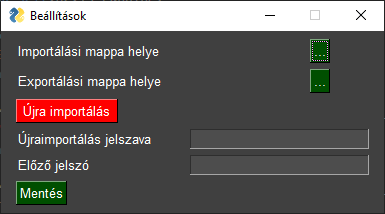
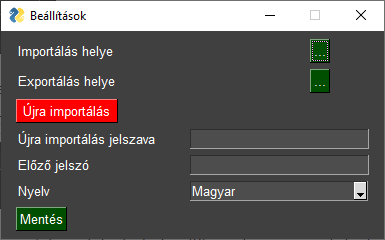
Added a help page

diff --git a/Help.MD b/Help.MD
@@ -2,11 +2,11 @@
 
 ## Első lépések
 
- Mikor elindítod a programot, a beállítások panel jelenik meg, ahol be lehet állítani az importálási mappát, az exportálási mappát, illetve az újraimportálás jelszavát is. Ezt a későbbiekben megváltoztahatod, amennyiben úgy gondolod.
+ Mikor elindítod a programot, a beállítások panel jelenik meg, ahol be lehet állítani az importálási mappát, az exportálási mappát, illetve az újraimportálás jelszavát is. A nyelv beállítása javasolt az első indításnál, mert olyankor még nem igényel újraindítást! Ezeket a beálításokat a későbbiekben a 'Beállítások' gombra kattintva bármikor megváltoztahatod.
 
 ![Beállítások ablak](https://github.com/NightKey/Inventory_manager/blob/master/images/settings00.png?raw=true)
 
- Amennyiben sikeresen megadtad az adatokat, és a mentés gombra nyomsz, a főmenü nylílik meg előtted nemsokkal később.
+ Amennyiben sikeresen megadtad az adatokat, és a mentés gombra nyomsz, a főmenü nylílik meg előtted az adatok importálása után. Az importálás a számítógép teljesítményétől és az adatok mennyiségétől függően, akár több percet is igénybe vehet!
 
 ![Főmenü](https://github.com/NightKey/Inventory_manager/blob/master/images/main00.png?raw=true)
 
@@ -14,9 +14,9 @@
 
 ![Betöltési hiba](https://github.com/NightKey/Inventory_manager/blob/master/images/loadingerror00.png?raw=true)
 
- A hibát az okozza, hogy a mentett adatok nem olvashatóak, és az importálás sikertelen volt, vagy azért, mert nem voltak fileok, amiből importálni lehetett volna, vagy azért, mert hibásak voltak a fileok, amiket importálni próbált a program.
+ A hibát az okozza, hogy a mentett adatok nem olvashatóak, és az importálás sikertelen volt. Ez vagy azért lehet, mert nem voltak fileok amiből importálni lehetett volna, vagy azért, mert hibásak voltak a fileok amiket importálni próbált a program.
 
- A 'Beállítások' opcióra nyomva a beállítások panelt hozhatod elő, melyen ugyan azokat tudod beállítani, mint az első panelen, amivel találkoztál, továbbá az újraimportálás gomb is elérhető lesz számodra. Ezt csak végszükség esetén használd, mert a beolvasott adatokat, az XLSX file-ban találhatóakra állítja vissza. *A PROGRAM __NEM__ VÁLTOZTATJA AZ XLSX FILEOKAT!*
+ A 'Beállítások' opcióra nyomva a beállítások panelt hozhatod elő, melyen ugyan azokat tudod beállítani, mint az első panelen, amivel találkoztál, továbbá az újraimportálás gomb is elérhető lesz számodra. Ezt csak végszükség esetén használd, mert az elmentett adatokat, az XLSX file-ban találhatóakra állítja vissza. *A PROGRAM __NEM__ VÁLTOZTATJA AZ XLSX FILEOKAT!*
 
 ![Beálítások ablak 2](https://github.com/NightKey/Inventory_manager/blob/master/images/settings01.png?raw=true)
 
@@ -24,17 +24,50 @@
 
 ![Jelszó bekérő](https://github.com/NightKey/Inventory_manager/blob/master/images/validation00.png?raw=true)
 
- Az embereket név szerint tudod keresni, mely keresést resetelni tudod az 'X' gomb megnyomásával a kereső sáv mellett.
+ Az embereket név szerint tudod keresni, mely keresést törölni tudod az 'X' gomb megnyomásával a kereső sáv mellett.
 
 ![Személyek](https://github.com/NightKey/Inventory_manager/blob/master/images/persons00.png?raw=true)
 
- Az árucikkeket a nevük, és a cikkszámuk alapján tudod keresni, melyeket külön-külön tudsz resetelni a nekik járó 'X' gombokkal.
+ Az árucikkeket a nevük, és a cikkszámuk alapján tudod keresni, melyeket külön-külön tudsz törölni a nekik járó 'X' gombokkal.
 
 ![Árucikkek](https://github.com/NightKey/Inventory_manager/blob/master/images/products00.png?raw=true)
 
- Az új szállító, árajánlat vagy rendelés gombbal pedig a következő felületre érsz, ahol ki tudod választani a személyt, tudsz hozzá adni megjegyzést, árucikkeket, és kedvezményt, majd el tudod menteni azt.
+ Az árucikkre kattintva elérheted az árucikk szerkesztő ablakot, ahol meg tudod változtatni az árucikk adatait.
+
+![Árucikk szerkesztése](https://github.com/NightKey/Inventory_manager/blob/master/images/productedit01.png?raw=true)
+
+ Az új szállító, árajánlat vagy rendelés gombbal pedig a következő felületre érsz.
 
 ![Levelek](https://github.com/NightKey/Inventory_manager/blob/master/images/newnote00.png?raw=true)
+
+ Itt az 'új árucikk felvétele' gombra kattintva új árucikket vehetünk fel, a következő ablakban.
+
+![Árucikk felvétele](https://github.com/NightKey/Inventory_manager/blob/master/images/productedit00.png?raw=true)
+
+ Amennyiben valamely árucikkből kevesebb lesz, mint a minimum beállított miután hozzá adjuk a szállító levélhez, a program figyelmeztetni fog mintket, a fennálló mennyiséggel.
+
+![Mennyiség figyelmeztetés](https://github.com/NightKey/Inventory_manager/blob/master/images/amounterror00.png?raw=true)
+
+ Miután hozzáadtuk az árucikkeket, felvehetünk egy kedvezményt, amely az egész levélre szól.
+
+![Kedvezmény felvétele](https://github.com/NightKey/Inventory_manager/blob/master/images/discount00.png?raw=true)
+
+ Hogy megnézzük az eddig felvett leveleket, a megfelelő gombra kattintva tudjuk megtenni. Amennyiben van levél, a következő ablakot fogjuk látni:
+
+![Levelek megtekintése](https://github.com/NightKey/Inventory_manager/blob/master/images/notes00.png?raw=true)
+
+ Itt a vevő kiválasztása után megtekinthetjük az adott levél előnézetét:
+
+![Levél megtekintése](https://github.com/NightKey/Inventory_manager/blob/master/images/noteview00.png?raw=true)
+
+ Ugyanezt az ablakot elérhetjük a "személyek" gombra kattintás után a megfelelő személyt kiválasztva.
+ Amennyiben nincs megjeleníthető adat, a program a tudtunkra adja egy autómatikusan eltűnő figyelmeztetéssel:
+
+![Nincs adat](https://github.com/NightKey/Inventory_manager/blob/master/images/nodata00.png?raw=true)
+
+ A program segítséget nyújt azon adatok megtalálásában, melyeknek az adatai hibásan vannak elmentve. Ezeket a "Névtelen árucikk" gombbal tudjuk megjeleníteni, ahol az árucikkre való kattintás után már szerkeszthetjük is az adatait.
+
+![Árucikk felvétele](https://github.com/NightKey/Inventory_manager/blob/master/images/namelessproducts00.png?raw=true)
 
  Amennyiben további segítség kell, fordulj hozzám nyugodtan [Emailben](mailto:davidjantho@gmail.com).
 

diff --git a/README.MD b/README.MD
@@ -1,0 +1,21 @@
+# Inventory Manager
+
+This program is an inventory manager program, that can handle creating 3 types of notes:
+
+ - Quotation
+ - Order
+ - Delivery note
+
+## Quotation
+
+This note is usable, when a costumer wants a quotation for a project. These can be upgraded (either one by one, or multiple with the same costumer name) to either an order or a delivery note.
+
+## Order
+
+This note is usable, when a costumer orders product's for a project. These can be upgraded (either one by one, or multiple with the same costumer name) to a delivery note.
+
+## Delivery note
+
+This note is useable, when a costumer pays or gets products for later payment.
+
+###### Icons made by [Freepik](http://www.freepik.com/) from [www.flaticon.com](https://www.flaticon.com/)
